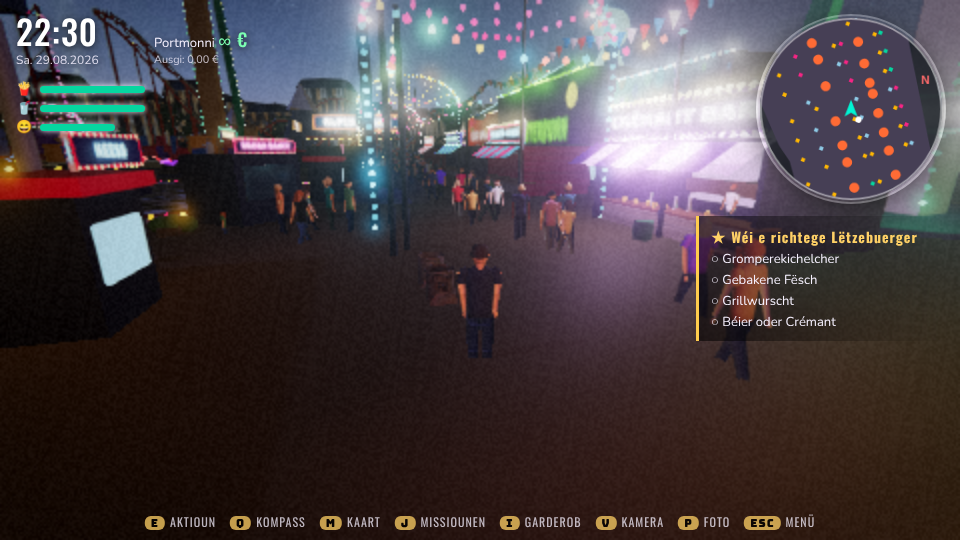
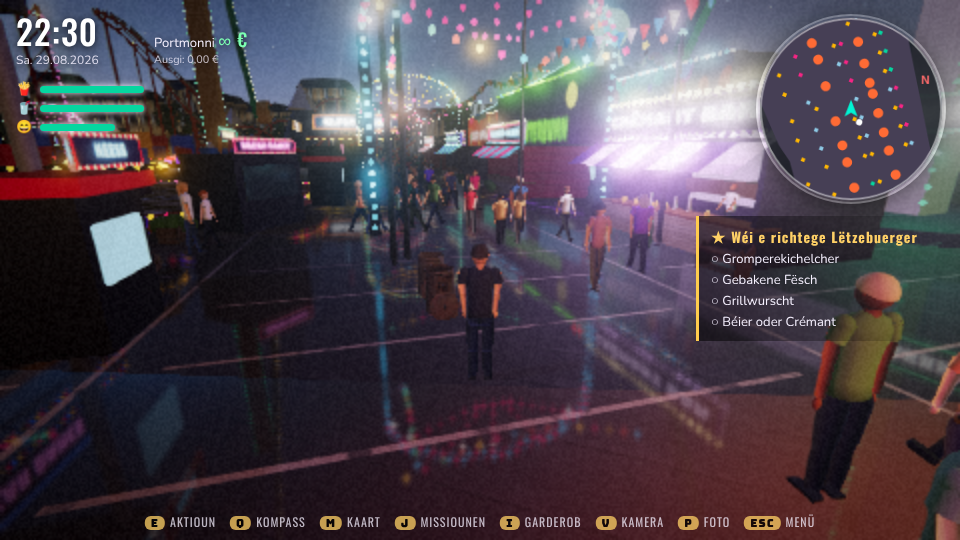
docs(schueberfouer): pin down the missing-asphalt frames to texture loading; realistic style evidence
In-page pixel probe: ground is wrong only in single early frames (5, 9)
while textures stream in, stable from frame 11. Evidence 42, 45, 46 retaken
at steady state.

Claude-Session: https://claude.ai/code/session_01FinS2YwBMETLP95cFjJE5b

diff --git a/prototypes/schueberfouer/README.md b/prototypes/schueberfouer/README.md
@@ -107,8 +107,9 @@ Maßnahmen: räumlich gebündelte statische Geometrie (Frustum-Culling greift), 
   und kühlen Schatten) und *Neon-Comic* (Tuschekonturen, Farbstufen, blaugrüne Schatten, Hologramm-HUD).
 - **three.js r170 → r187** im Browser (Stufe 1 von ADR-0002, WebGPU). Die Android-App bündelt weiter r170;
   `js/fx.js` unterstützt beide Versionen.
-- **Bekannter Fehler:** In manchen Testläufen fehlen Asphalt und Parkplatzlinien (die Wiese darunter ist sichtbar).
-  Ursache noch nicht gefunden.
+- **Bekannte Eigenheit:** In den ersten rund 10 Bildern nach dem Spielstart, solange Texturen nachladen, kann der
+  Asphalt in einzelnen Bildern fehlen (die Wiese darunter ist sichtbar). Gemessen per Pixelprobe im Test-Browser
+  (Bilder 5 und 9 betroffen, ab Bild 11 stabil). Dort dauert das wegen ~0,5 Bildern/s rund 20 s.
 
 ## Dateien
 `index.html` (lokal), `artifact.html` (veröffentlichte Variante), `js/data.js` (alle
